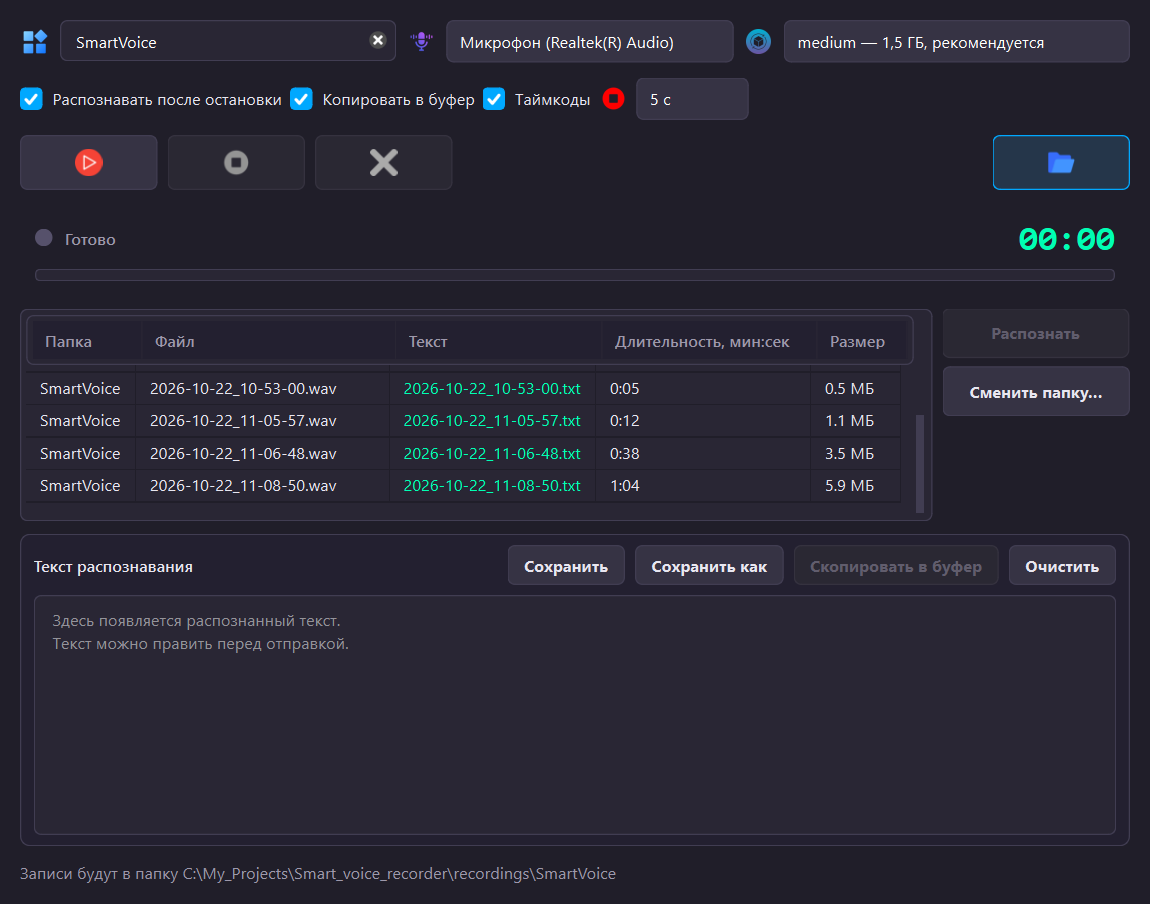
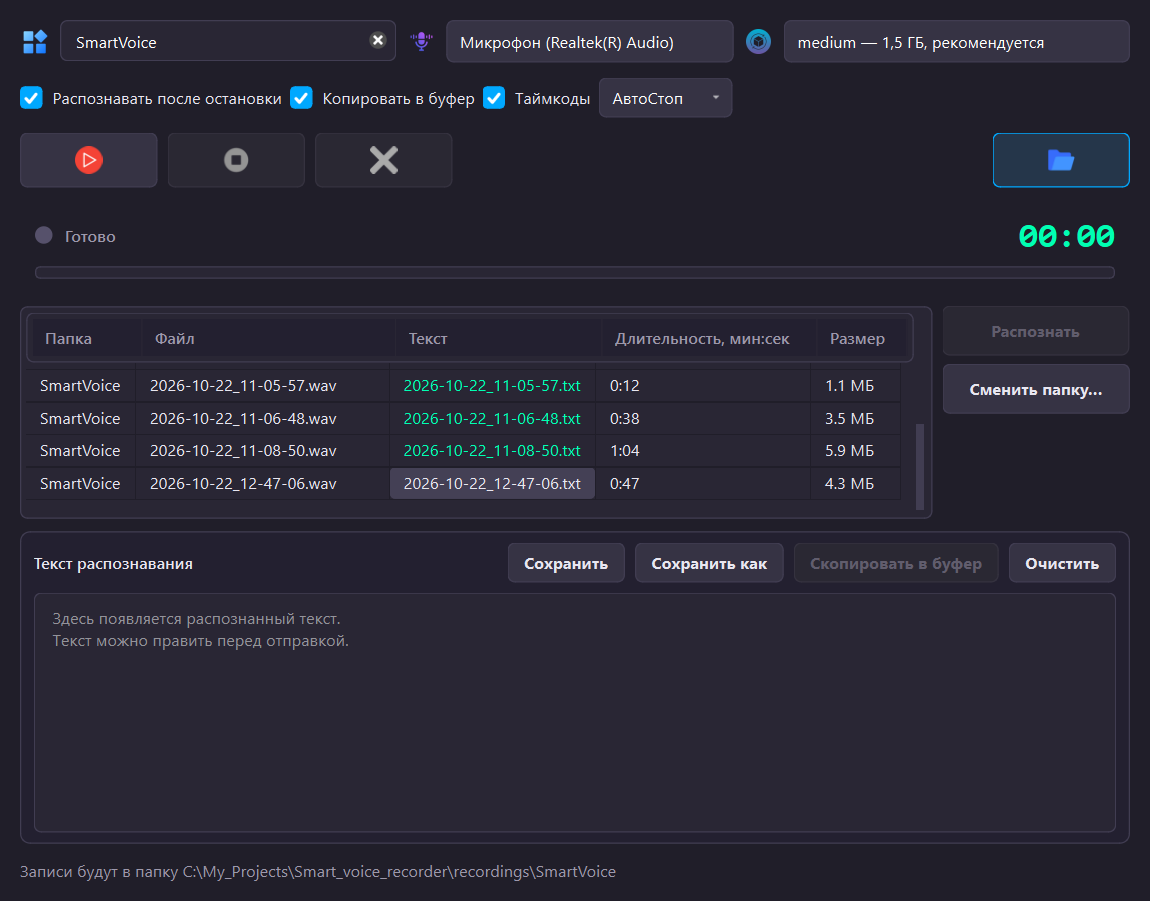
feat: put the auto-stop name into the field and spell the timeouts out
The red stop icon next to the field said nothing a word could not say
better, so the field now carries its own name and opens the list when
clicked. The timeouts are written in words: «нет», «три секунды»,
«пять секунд», «десять секунд». The chosen one is marked with a tick.

The list needed its own menu colours: a stock Qt menu is drawn light
and looked foreign on the dark window.

diff --git a/src/main_window.py b/src/main_window.py
@@ -31,6 +31,7 @@ from PyQt6.QtCore import (
     pyqtSignal,
 )
 from PyQt6.QtGui import (
+    QAction,
     QBrush,
     QColor,
     QTextBlock,
@@ -50,6 +51,7 @@ from PyQt6.QtWidgets import (
     QLabel,
     QLineEdit,
     QMainWindow,
+    QMenu,
     QMessageBox,
     QPlainTextEdit,
     QPushButton,
@@ -64,8 +66,8 @@ import storage
 from src import config, model_store
 from src.config import (
     AUTO_STOP_CHOICES,
+    AUTO_STOP_LABELS,
     AVAILABLE_MODELS,
-    DEFAULT_AUTO_STOP_SECONDS,
     Settings,
 )
 from src.core.icons import app_icon, icon
@@ -402,33 +404,32 @@ class MainWindow(QMainWindow):
         box.addWidget(self.timecodes_box)
 
         # АвтоСтоп: микрофон замолчал — значит, человек закончил
-        # и забыл нажать ■. Поле сделано как у микрофона наверху:
-        # значок с подсказкой и раскрывающийся список сроков.
-        box.addWidget(self._icon_label("stop", "АвтоСтоп"))
-
-        self.auto_stop_box = QComboBox()
-        self.auto_stop_box.setMinimumWidth(90)
-        self.auto_stop_box.setToolTip(
-            "АвтоСтоп: остановить запись, если микрофон замолчал.\n"
+        # и забыл нажать ■. Слово написано в самом поле, а сроки
+        # раскрываются по нажатию: поэтому это кнопка с меню, а не
+        # поле выбора со значком рядом.
+        self.auto_stop_button = QPushButton("АвтоСтоп")
+        self.auto_stop_button.setObjectName("autoStop")
+        self.auto_stop_button.setToolTip(
+            "Остановить запись, если микрофон замолчал.\n"
             "«нет» — запись идёт, пока не нажмёте ■."
         )
-        self.auto_stop_box.addItem("нет", None)
-        for seconds in AUTO_STOP_CHOICES:
-            self.auto_stop_box.addItem(f"{seconds} с", seconds)
 
-        saved = self.settings.auto_stop_seconds
-        chosen = 0 if saved is None else self.auto_stop_box.findData(saved)
-        if chosen < 0:
-            chosen = self.auto_stop_box.findData(DEFAULT_AUTO_STOP_SECONDS)
-        self.auto_stop_box.setCurrentIndex(chosen)
-        box.addWidget(self.auto_stop_box)
+        self.auto_stop_menu = QMenu(self)
+        for seconds in (None, *AUTO_STOP_CHOICES):
+            title = "нет" if seconds is None else AUTO_STOP_LABELS[seconds]
+            action = self.auto_stop_menu.addAction(title)
+            action.setCheckable(True)
+            action.setData(seconds)
+        self.auto_stop_button.setMenu(self.auto_stop_menu)
+        self._mark_auto_stop()
+        box.addWidget(self.auto_stop_button)
 
         # Слоты подключаем последними: до этого момента расстановка
         # галочек ещё не должна была ничего записывать в настройки
         self.auto_transcribe_box.toggled.connect(self._on_auto_transcribe)
         self.auto_copy_box.toggled.connect(self._on_auto_copy)
         self.timecodes_box.toggled.connect(self._on_timecodes)
-        self.auto_stop_box.currentIndexChanged.connect(self._on_auto_stop)
+        self.auto_stop_menu.triggered.connect(self._on_auto_stop)
 
         box.addStretch(1)
         return holder
@@ -1093,14 +1094,17 @@ class MainWindow(QMainWindow):
         self.settings.timecodes = checked
         self.settings.save()
 
-    def _on_auto_stop(self) -> None:
+    def _on_auto_stop(self, action: QAction) -> None:
         """Выбран новый срок автостопа (или он выключен вовсе)."""
-        seconds = self.auto_stop_box.currentData()
-        if seconds is None:
-            self.settings.auto_stop_seconds = None
-        elif isinstance(seconds, int):
-            self.settings.auto_stop_seconds = seconds
+        self.settings.auto_stop_seconds = action.data()
         self.settings.save()
+        self._mark_auto_stop()
+
+    def _mark_auto_stop(self) -> None:
+        """Отмечает в списке тот срок, который сейчас в настройках."""
+        current = self.settings.auto_stop_seconds
+        for action in self.auto_stop_menu.actions():
+            action.setChecked(action.data() == current)
 
     def _on_nothing_recorded(self) -> None:
         self._set_recording_ui(False)

diff --git a/src/core/styles.py b/src/core/styles.py
@@ -309,6 +309,39 @@ QAbstractItemView::item:selected {{
     color: {ON_ACCENT};
 }}
 
+/* Меню сроков автостопа. Обычное меню Qt рисуется системными цветами:
+   на тёмном фоне светлая полоса выглядит чужой, поэтому фон, рамка
+   и подсветка строки заданы здесь. */
+
+QMenu {{
+    background-color: {SURFACE};
+    border: 1px solid {BORDER};
+    border-radius: 6px;
+    padding: 4px;
+    color: {TEXT};
+}}
+
+QMenu::item {{
+    padding: 6px 26px 6px 30px;
+    border-radius: 4px;
+}}
+
+QMenu::item:selected {{
+    background-color: {ACTIVE};
+    color: {ACTIVE_TEXT};
+}}
+
+/* Отметка выбранного срока: слева от строки, как у галочек */
+QMenu::indicator {{
+    width: 16px;
+    height: 16px;
+    margin-left: 8px;
+}}
+
+QMenu::indicator:checked {{
+    image: url("{CHECK_MARK}");
+}}
+
 /* --- Список записей --------------------------------------------------- */
 
 QListWidget::item {{
@@ -350,6 +383,18 @@ QPushButton:disabled {{
     background-color: {DISABLED_BG};
     color: {DISABLED_TEXT};
     border-color: {DISABLED_BORDER};
+}}
+
+/* Поле автостопа: слово «АвтоСтоп» написано в нём самом, значка
+   рядом нет. Список сроков раскрывается по нажатию, поэтому это
+   кнопка с меню, но выглядеть она должна полем, а не клавишей:
+   отсюда обычное начертание и место справа под стрелку списка. */
+
+QPushButton#autoStop {{
+    color: {ON_ACCENT};
+    font-weight: normal;
+    padding: 6px 26px 6px 10px;
+    text-align: left;
 }}
 
 /* Кнопка-переключатель зоны: нажата — значит зона раскрыта */

diff --git a/tests/test_config.py b/tests/test_config.py
@@ -40,6 +40,12 @@ class SettingsTest(unittest.TestCase):
         # Авто-стоп тоже включён, срок — пять секунд
         self.assertEqual(settings.auto_stop_seconds, config.DEFAULT_AUTO_STOP_SECONDS)
 
+    def test_every_timeout_has_a_name_for_the_list(self) -> None:
+        # Список в окне собирается по AUTO_STOP_CHOICES: срок без
+        # названия уронил бы окно при сборке
+        for seconds in config.AUTO_STOP_CHOICES:
+            self.assertIn(seconds, config.AUTO_STOP_LABELS)
+
     def test_round_trip(self) -> None:
         settings = config.Settings()
         settings.recordings_dir = "C:/записи"

diff --git a/src/config.py b/src/config.py
@@ -47,6 +47,14 @@ MODEL_SIZES_MB = {
 # Сколько секунд тишины считать концом записи. Варианты для выбора.
 AUTO_STOP_CHOICES = (3, 5, 10)
 
+# Как сроки называются в списке. Числами было бы короче, но слова
+# читаются спокойнее и не требуют пересчёта в уме.
+AUTO_STOP_LABELS = {
+    3: "три секунды",
+    5: "пять секунд",
+    10: "десять секунд",
+}
+
 # Сколько секунд тишины считать концом записи по умолчанию.
 DEFAULT_AUTO_STOP_SECONDS = 5
 

diff --git a/README.md b/README.md
@@ -96,7 +96,7 @@ poetry run pyinstaller SmartVoiceRecorder.spec
 
 ### Переключатели
 
-Под верхней строкой настроек есть три галочки и список «Авто-стоп».
+Под верхней строкой настроек есть три галочки и поле «АвтоСтоп».
 Всё включено при первом запуске, дальше запоминается ваш выбор.
 
 - **Распознавать после остановки** — после **■** запись сама уходит
@@ -107,19 +107,18 @@ poetry run pyinstaller SmartVoiceRecorder.spec
   можно вставить сразу, не открывая вторую зону. Пустой текст в буфер
   не копируется, чтобы не затереть его содержимое.
 - **Таймкоды** — добавлять ли в начало строк метки вида `[00:12]`.
-- **АвтоСтоп** — раскрывающийся список со сроком: остановить ли запись,
-  если микрофон замолчал. Варианты: «нет», 3, 5 или 10 секунд. Значок
-  перед списком — как у микрофона наверху, а название написано
-  в подсказке.
+- **АвтоСтоп** — поле с названием: нажмите на него, и раскроется список
+  сроков — остановить ли запись, если микрофон замолчал. Варианты:
+  «нет», три, пять или десять секунд. Выбранный срок отмечен галочкой.
 
 С двумя включёнными сценарий сокращается до «записал → нажал ■ → вставил».
 
 #### АвтоСтоп
 
 Говорите, замолчали — и запись сама останавливается. Срок выбирается
-в списке «АвтоСтоп», по умолчанию это 5 секунд. Перед остановкой в строке
-состояния появляется предупреждение, так что запись не обрывается
-незаметно.
+в списке поля «АвтоСтоп», по умолчанию это пять секунд. Перед остановкой
+в строке состояния появляется предупреждение, так что запись не
+обрывается незаметно.
 
 Тишина считается по среднеквадратичному уровню звука, а не по пику:
 одиночный щелчок мышью пиком выглядит громко, а средним уровнем — нет.
